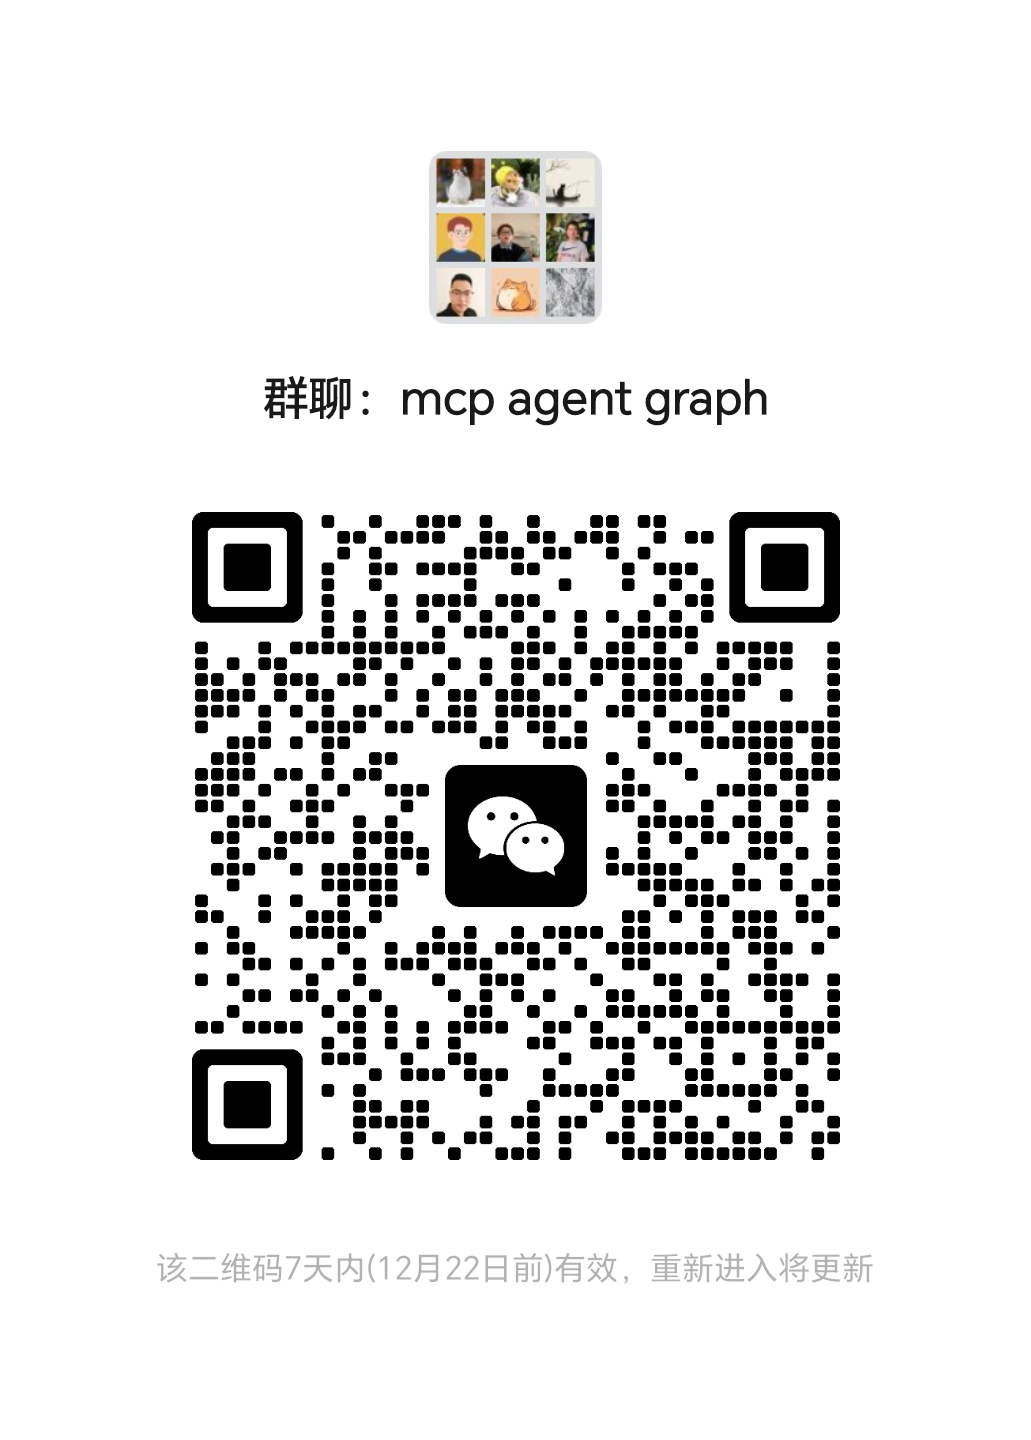
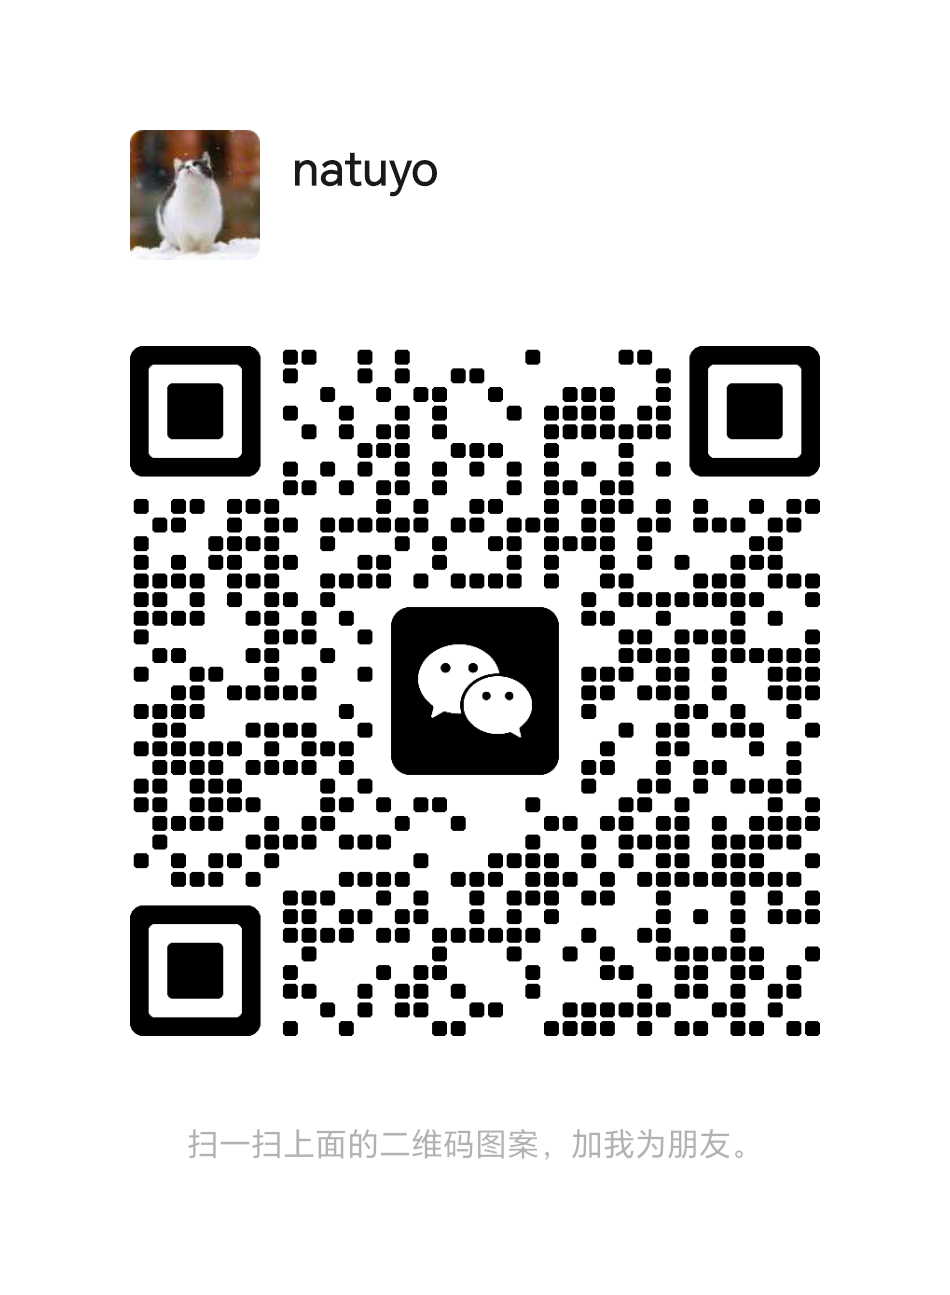
docs(readme): update WeChat contact section with new QR code

Changed region(s): [[0.1221, 0.0927, 0.8853, 0.8031], [0.1526, 0.8649, 0.8547, 0.8958], [0.1221, 0.0927, 0.2747, 0.2162]]

diff --git a/README_CN.md b/README_CN.md
@@ -264,4 +264,7 @@ npm run build  # 构建生产版本
 ```
 
 ## 7. 微信群
+
+群满或者合作交流可以联系：
+
 ![微信群二维码](docs/assets/wechat.png)
